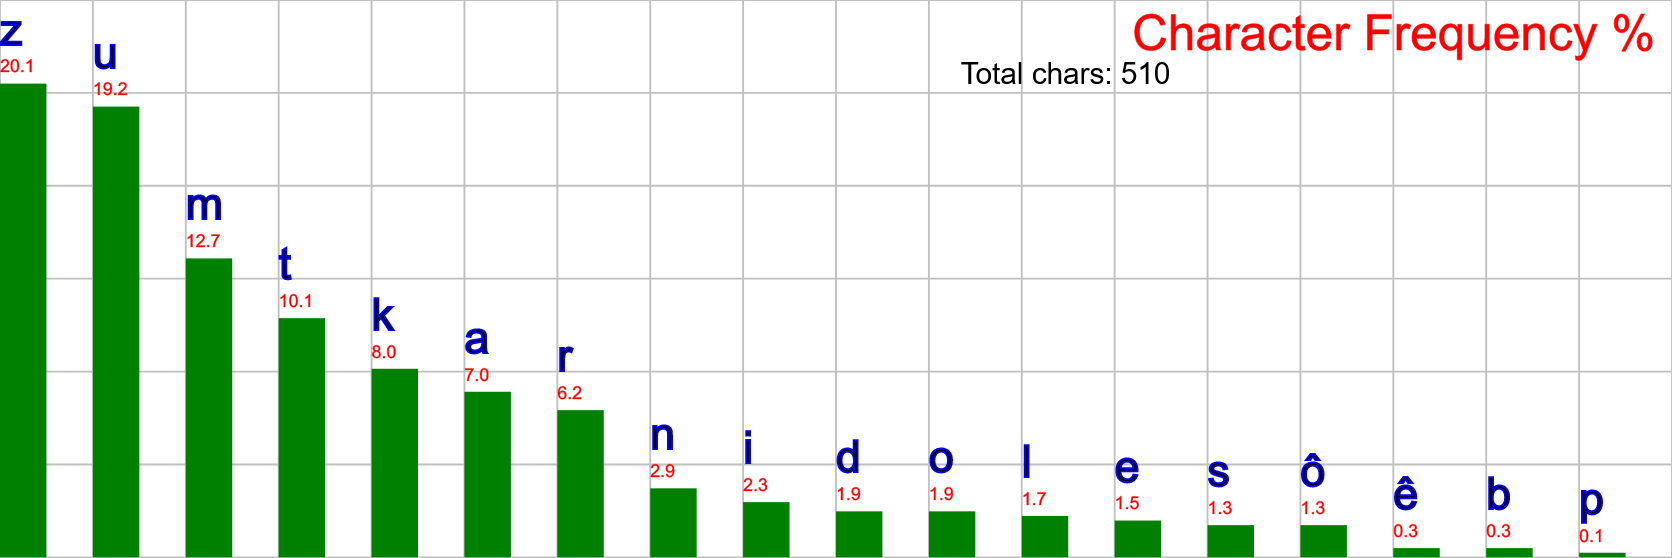
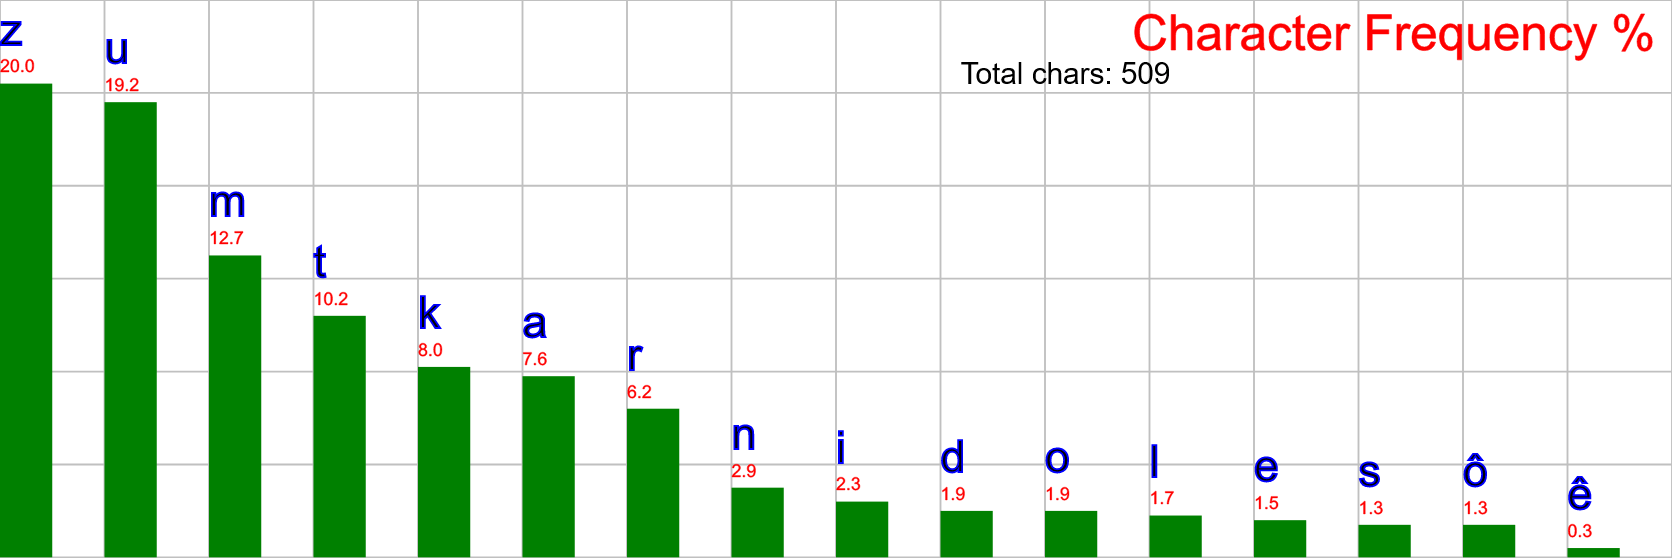
/b/ no longer allowed in finals

Changed region(s): [[0.0, 0.0609, 0.9952, 1.0], [0.6531, 0.0914, 0.7153, 0.1523]]

diff --git a/namei/eremoran.html b/namei/eremoran.html
@@ -471,7 +471,7 @@ The following remarks apply to the Bend-Highbrook dialect:
 	<tr>
 		<th>/b/</th>
 		<td colspan=2 class="gre"></td>
-		<td class="yel"></td>
+		<td class="red"></td>
 	</tr>
 	<tr>
 		<th>/p/</th>
@@ -1293,7 +1293,7 @@ In increasing order of politeness:
 	</tr>
 	<tr>
 		<td>Sorry!</td>
-		<td class="eremoran">lib berbkaldoz as</td>
+		<td class="eremoran">liba berbkaldoz as</td>
 	</tr>
 	<tr>
 		<td>Excuse me!</td>
@@ -3849,9 +3849,9 @@ http://xahlee.info/kbd/char_frequency_counter.html
 				<li>stone, rock</li>
 			</ol>
 		</dd>
-	<dt>lib</dt>
+	<dt>liba</dt>
 		<dd><img src="../img/eremoran/lib.png" width="64" alt=""></dd>
-		<dd>Etymology: Proto-Eremo-Numoran *lib 'heart'</dd>
+		<dd>Etymology: Proto-Eremo-Numoran *liba 'heart'</dd>
 		<dd>n., 4th</dd>
 		<dd>
 			<ol>
@@ -4741,8 +4741,8 @@ http://xahlee.info/kbd/char_frequency_counter.html
 				<li>importance</li>
 			</ol>
 		</dd>
-	<dt>rab</dt>
-		<dd>Etymology: Proto-Eremo-Numoran *rab 'belly'</dd>
+	<dt>raba</dt>
+		<dd>Etymology: Proto-Eremo-Numoran *raba 'belly'</dd>
 		<dd>n., 4th</dd>
 		<dd>
 			<ol>
